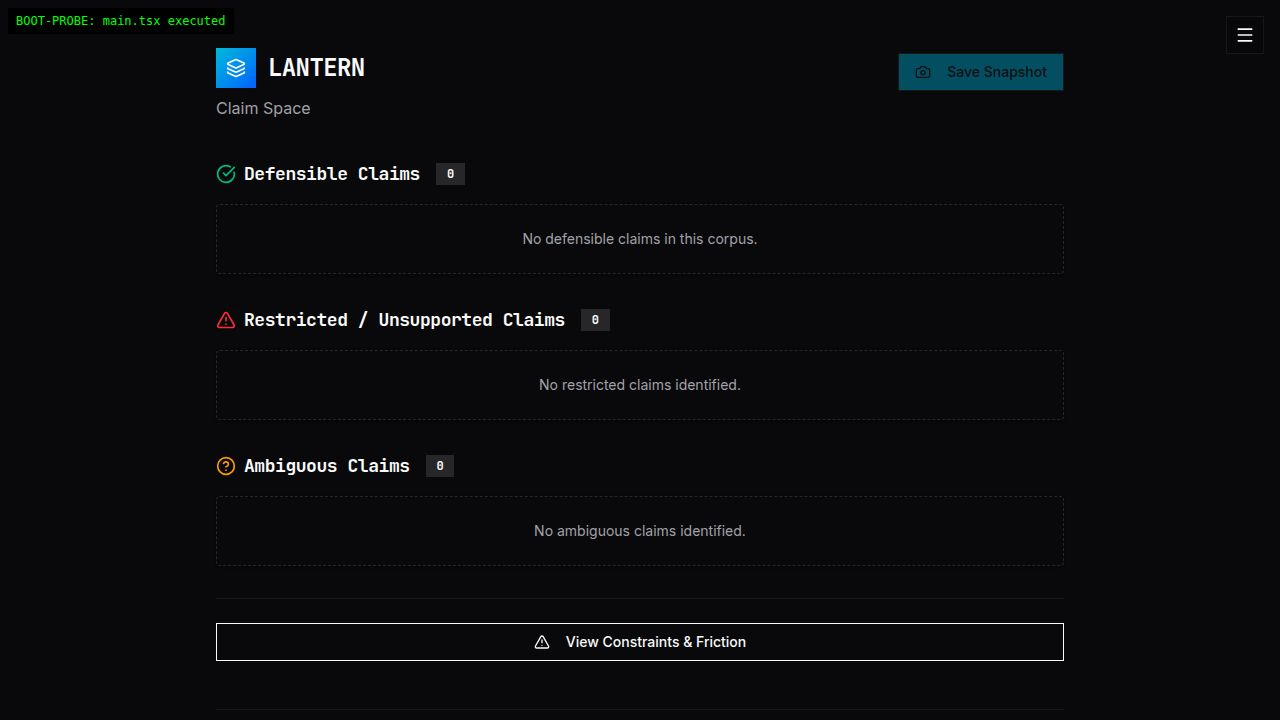
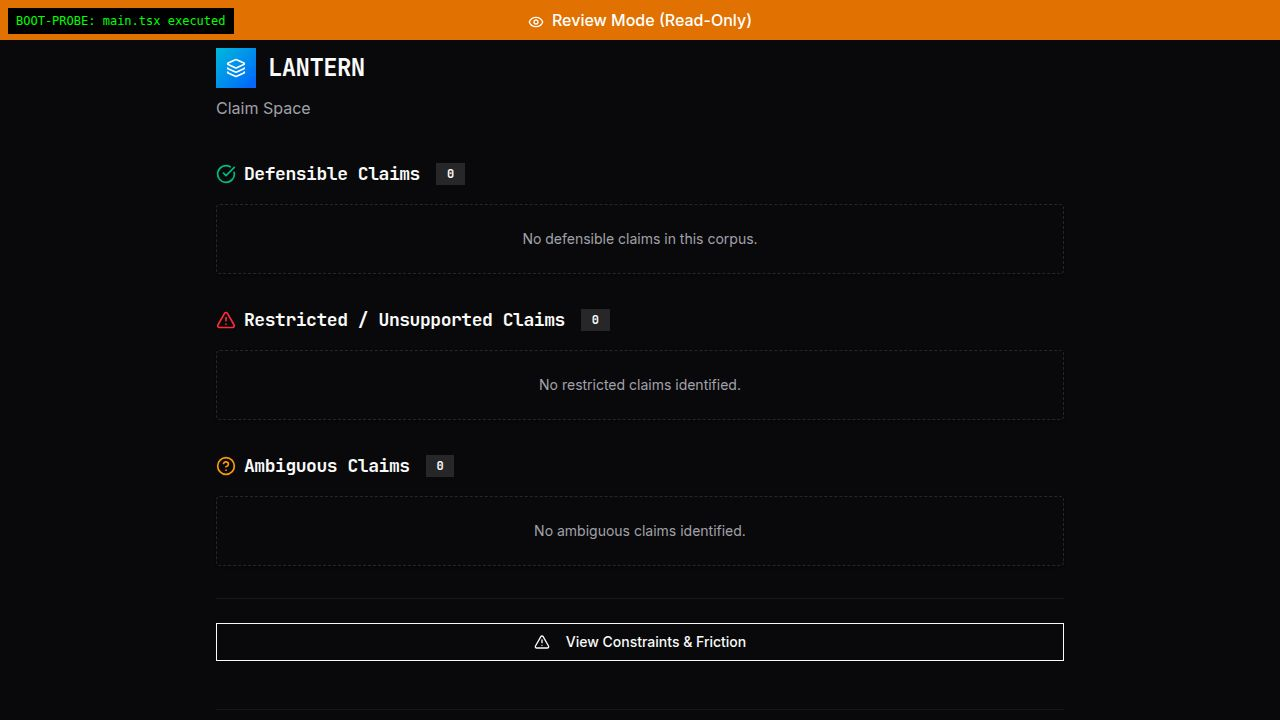
Add public review links and a read-only navigation system
Implement new routes for public review, a read-only navigation bar, and a Sources page.

Replit-Commit-Author: Agent
Replit-Commit-Session-Id: 6cbdde82-6ea7-4816-ad57-712b8c24fa28
Replit-Commit-Checkpoint-Type: full_checkpoint
Replit-Commit-Event-Id: 3db3fa1e-e1d4-4218-8c7d-ac230c320d6b
Replit-Commit-Screenshot-Url: https://storage.googleapis.com/screenshot-production-us-central1/dda703d2-43c3-48e4-9741-83ee73171131/6cbdde82-6ea7-4816-ad57-712b8c24fa28/N1wVtm2
Replit-Helium-Checkpoint-Created: true

Changed region(s): [[0.0, 0.0, 1.0, 0.1222]]

diff --git a/client/src/pages/sources.tsx b/client/src/pages/sources.tsx
@@ -1,0 +1,130 @@
+import { useState, useEffect } from "react";
+import { useSearch } from "wouter";
+import { Card, CardContent, CardHeader, CardTitle } from "@/components/ui/card";
+import { Layers, FileText } from "lucide-react";
+
+interface Source {
+  source_id: string;
+  corpus_id: string;
+  role: string;
+  filename: string;
+  uploaded_at: string;
+  sha256_hex: string;
+}
+
+export default function Sources() {
+  const searchString = useSearch();
+  const params = new URLSearchParams(searchString);
+  const corpusId = params.get("corpusId");
+
+  const [sources, setSources] = useState<Source[]>([]);
+  const [loading, setLoading] = useState(true);
+  const [error, setError] = useState<string | null>(null);
+
+  useEffect(() => {
+    if (!corpusId) {
+      setLoading(false);
+      return;
+    }
+
+    const fetchSources = async () => {
+      try {
+        const response = await fetch(`/api/corpus/${corpusId}/sources`);
+        if (!response.ok) {
+          const errorData = await response.json();
+          throw new Error(errorData.message || "Failed to fetch sources");
+        }
+        const data = await response.json();
+        setSources(data.sources || []);
+      } catch (err) {
+        setError(err instanceof Error ? err.message : "Unknown error");
+      } finally {
+        setLoading(false);
+      }
+    };
+
+    fetchSources();
+  }, [corpusId]);
+
+  if (!corpusId) {
+    return (
+      <div className="min-h-screen bg-background text-foreground p-8">
+        <p className="text-muted-foreground">No corpus_id provided.</p>
+      </div>
+    );
+  }
+
+  return (
+    <div className="min-h-screen bg-background text-foreground p-8">
+      <div className="max-w-4xl mx-auto">
+        <header className="mb-8">
+          <div className="flex items-center gap-3 mb-2">
+            <div className="w-10 h-10 rounded bg-gradient-to-br from-cyan-500 to-emerald-500 flex items-center justify-center">
+              <Layers className="w-5 h-5 text-white" />
+            </div>
+            <h1 className="text-2xl font-bold tracking-tight">LANTERN</h1>
+          </div>
+          <p className="text-muted-foreground">Sources</p>
+          <p className="text-xs font-mono text-muted-foreground mt-1" data-testid="corpus-id-display">
+            corpus_id: {corpusId}
+          </p>
+        </header>
+
+        {error && (
+          <Card className="mb-6 border-red-500/30">
+            <CardContent className="py-3 text-sm text-red-400">
+              {error}
+            </CardContent>
+          </Card>
+        )}
+
+        {loading ? (
+          <p className="text-muted-foreground">Loading sources...</p>
+        ) : sources.length === 0 ? (
+          <Card>
+            <CardContent className="py-8 text-center text-muted-foreground">
+              <FileText className="w-8 h-8 mx-auto mb-2 opacity-50" />
+              <p>No sources in this corpus.</p>
+            </CardContent>
+          </Card>
+        ) : (
+          <Card>
+            <CardHeader>
+              <CardTitle className="text-base">Corpus Sources ({sources.length})</CardTitle>
+            </CardHeader>
+            <CardContent>
+              <div className="overflow-x-auto">
+                <table className="w-full text-sm" data-testid="sources-table">
+                  <thead>
+                    <tr className="border-b border-border">
+                      <th className="text-left py-2 px-2 font-medium text-muted-foreground">role</th>
+                      <th className="text-left py-2 px-2 font-medium text-muted-foreground">filename</th>
+                      <th className="text-left py-2 px-2 font-medium text-muted-foreground">sha256_hex</th>
+                      <th className="text-left py-2 px-2 font-medium text-muted-foreground">uploaded_at</th>
+                      <th className="text-left py-2 px-2 font-medium text-muted-foreground">source_id</th>
+                    </tr>
+                  </thead>
+                  <tbody>
+                    {sources.map((source) => (
+                      <tr key={source.source_id} className="border-b border-border/50" data-testid={`source-row-${source.source_id}`}>
+                        <td className="py-2 px-2">{source.role}</td>
+                        <td className="py-2 px-2 truncate max-w-[150px]">{source.filename}</td>
+                        <td className="py-2 px-2 font-mono text-xs truncate max-w-[180px]" title={source.sha256_hex}>
+                          {source.sha256_hex.slice(0, 16)}...
+                        </td>
+                        <td className="py-2 px-2 text-xs">{new Date(source.uploaded_at).toLocaleString()}</td>
+                        <td className="py-2 px-2 font-mono text-xs truncate max-w-[120px]" title={source.source_id}>
+                          {source.source_id.slice(0, 8)}...
+                        </td>
+                      </tr>
+                    ))}
+                  </tbody>
+                </table>
+              </div>
+            </CardContent>
+          </Card>
+        )}
+      </div>
+    </div>
+  );
+}

diff --git a/client/src/App.tsx b/client/src/App.tsx
@@ -22,13 +22,63 @@ import Intake from "@/pages/intake";
 import AnchorBrowser from "@/pages/anchor-browser";
 import EvidencePacket from "@/pages/evidence-packet";
 import Ledger from "@/pages/ledger";
+import Sources from "@/pages/sources";
+import Review from "@/pages/review";
 import NotFound from "@/pages/not-found";
 import { Button } from "@/components/ui/button";
-import { Menu, X, BookOpen, Home, FileSearch, GitCompare, FolderOpen, Layers, AlertTriangle, Camera, FileUp, ScrollText, Eye } from "lucide-react";
+import { Menu, X, BookOpen, Home, FileSearch, GitCompare, FolderOpen, Layers, AlertTriangle, Camera, FileUp, ScrollText, Eye, FileText, Anchor } from "lucide-react";
+import { useSearch } from "wouter";
+
+function ReadOnlyNav({ corpusId }: { corpusId: string | null }) {
+  if (!corpusId) return null;
+  
+  return (
+    <nav 
+      className="fixed top-10 left-0 right-0 z-30 bg-background/95 backdrop-blur border-b border-border py-2 px-4 print:hidden"
+      data-testid="readonly-nav"
+    >
+      <div className="max-w-4xl mx-auto flex items-center gap-4 text-sm">
+        <Link href={`/?corpusId=${corpusId}`}>
+          <Button variant="ghost" size="sm" className="text-xs">
+            <Layers className="w-3 h-3 mr-1" />
+            Claim Space
+          </Button>
+        </Link>
+        <Link href={`/sources?corpusId=${corpusId}`}>
+          <Button variant="ghost" size="sm" className="text-xs">
+            <FileText className="w-3 h-3 mr-1" />
+            Sources
+          </Button>
+        </Link>
+        <Link href={`/anchors/browse?corpusId=${corpusId}`}>
+          <Button variant="ghost" size="sm" className="text-xs">
+            <Anchor className="w-3 h-3 mr-1" />
+            Anchors
+          </Button>
+        </Link>
+        <Link href={`/ledger?corpusId=${corpusId}`}>
+          <Button variant="ghost" size="sm" className="text-xs">
+            <ScrollText className="w-3 h-3 mr-1" />
+            Ledger
+          </Button>
+        </Link>
+        <Link href={`/snapshots?corpusId=${corpusId}`}>
+          <Button variant="ghost" size="sm" className="text-xs">
+            <Camera className="w-3 h-3 mr-1" />
+            Snapshots
+          </Button>
+        </Link>
+      </div>
+    </nav>
+  );
+}
 
 function Router() {
   const [menuOpen, setMenuOpen] = useState(false);
   const { isReadOnly } = useReadOnlyMode();
+  const searchString = useSearch();
+  const params = new URLSearchParams(searchString);
+  const corpusIdFromQuery = params.get("corpusId");
 
   return (
     <div className="relative">
@@ -43,19 +93,24 @@ function Router() {
         </div>
       )}
       
-      {/* Hamburger Menu Button */}
-      <button 
-        onClick={() => setMenuOpen(!menuOpen)}
-        className={`fixed ${isReadOnly ? 'top-14' : 'top-4'} right-4 z-50 p-2 bg-background/80 backdrop-blur border border-border/50 rounded-lg print:hidden`}
-        aria-label="Menu"
-        data-testid="button-menu"
-      >
-        {menuOpen ? <X className="w-5 h-5" /> : <Menu className="w-5 h-5" />}
-      </button>
+      {/* v1.12 Read-Only Navigation */}
+      {isReadOnly && <ReadOnlyNav corpusId={corpusIdFromQuery} />}
+      
+      {/* Hamburger Menu Button - hidden in read-only mode */}
+      {!isReadOnly && (
+        <button 
+          onClick={() => setMenuOpen(!menuOpen)}
+          className="fixed top-4 right-4 z-50 p-2 bg-background/80 backdrop-blur border border-border/50 rounded-lg print:hidden"
+          aria-label="Menu"
+          data-testid="button-menu"
+        >
+          {menuOpen ? <X className="w-5 h-5" /> : <Menu className="w-5 h-5" />}
+        </button>
+      )}
 
-      {/* Menu Panel */}
-      {menuOpen && (
-        <div className={`fixed ${isReadOnly ? 'top-24' : 'top-16'} right-4 z-50 bg-background border border-border rounded-lg shadow-lg p-2 min-w-[200px] print:hidden`}>
+      {/* Menu Panel - hidden in read-only mode */}
+      {menuOpen && !isReadOnly && (
+        <div className="fixed top-16 right-4 z-50 bg-background border border-border rounded-lg shadow-lg p-2 min-w-[200px] print:hidden">
           <nav className="flex flex-col gap-1">
             <Link href="/intake" onClick={() => setMenuOpen(false)}>
               <Button variant="ghost" size="sm" className="w-full justify-start text-sm">
@@ -123,8 +178,10 @@ function Router() {
       )}
 
       <Switch>
+        <Route path="/review/:corpusId" component={Review} />
         <Route path="/intake" component={Intake} />
         <Route path="/" component={ClaimSpace} />
+        <Route path="/sources" component={Sources} />
         <Route path="/anchors/browse" component={AnchorBrowser} />
         <Route path="/packets/:packetId" component={EvidencePacket} />
         <Route path="/ledger" component={Ledger} />

diff --git a/client/src/pages/review.tsx b/client/src/pages/review.tsx
@@ -1,0 +1,15 @@
+import { useEffect } from "react";
+import { useParams, useLocation } from "wouter";
+
+export default function Review() {
+  const params = useParams<{ corpusId: string }>();
+  const [, navigate] = useLocation();
+
+  useEffect(() => {
+    if (params.corpusId) {
+      navigate(`/?corpusId=${params.corpusId}`, { replace: true });
+    }
+  }, [params.corpusId, navigate]);
+
+  return null;
+}
